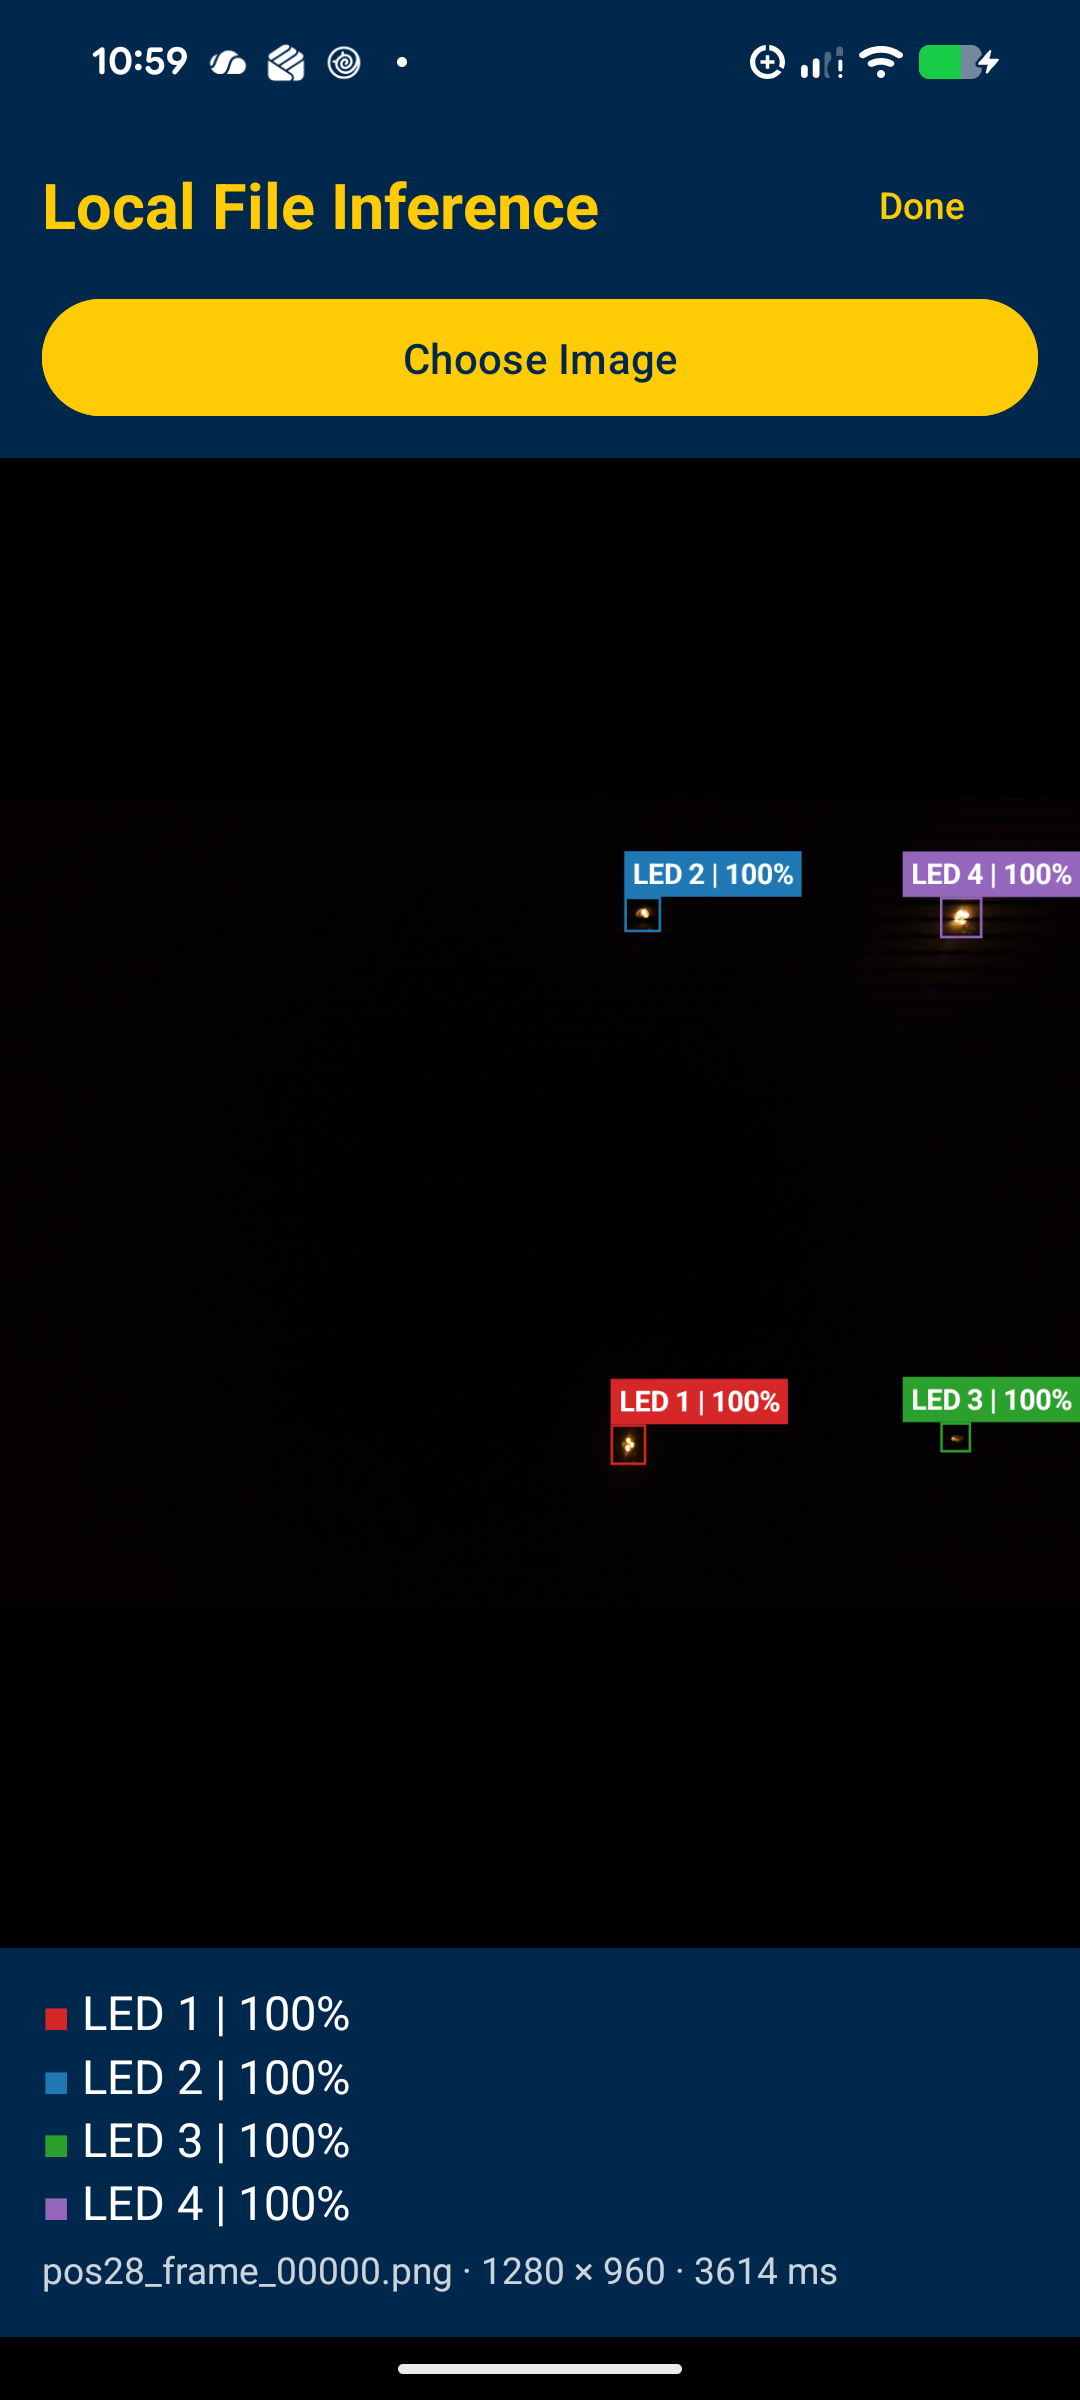
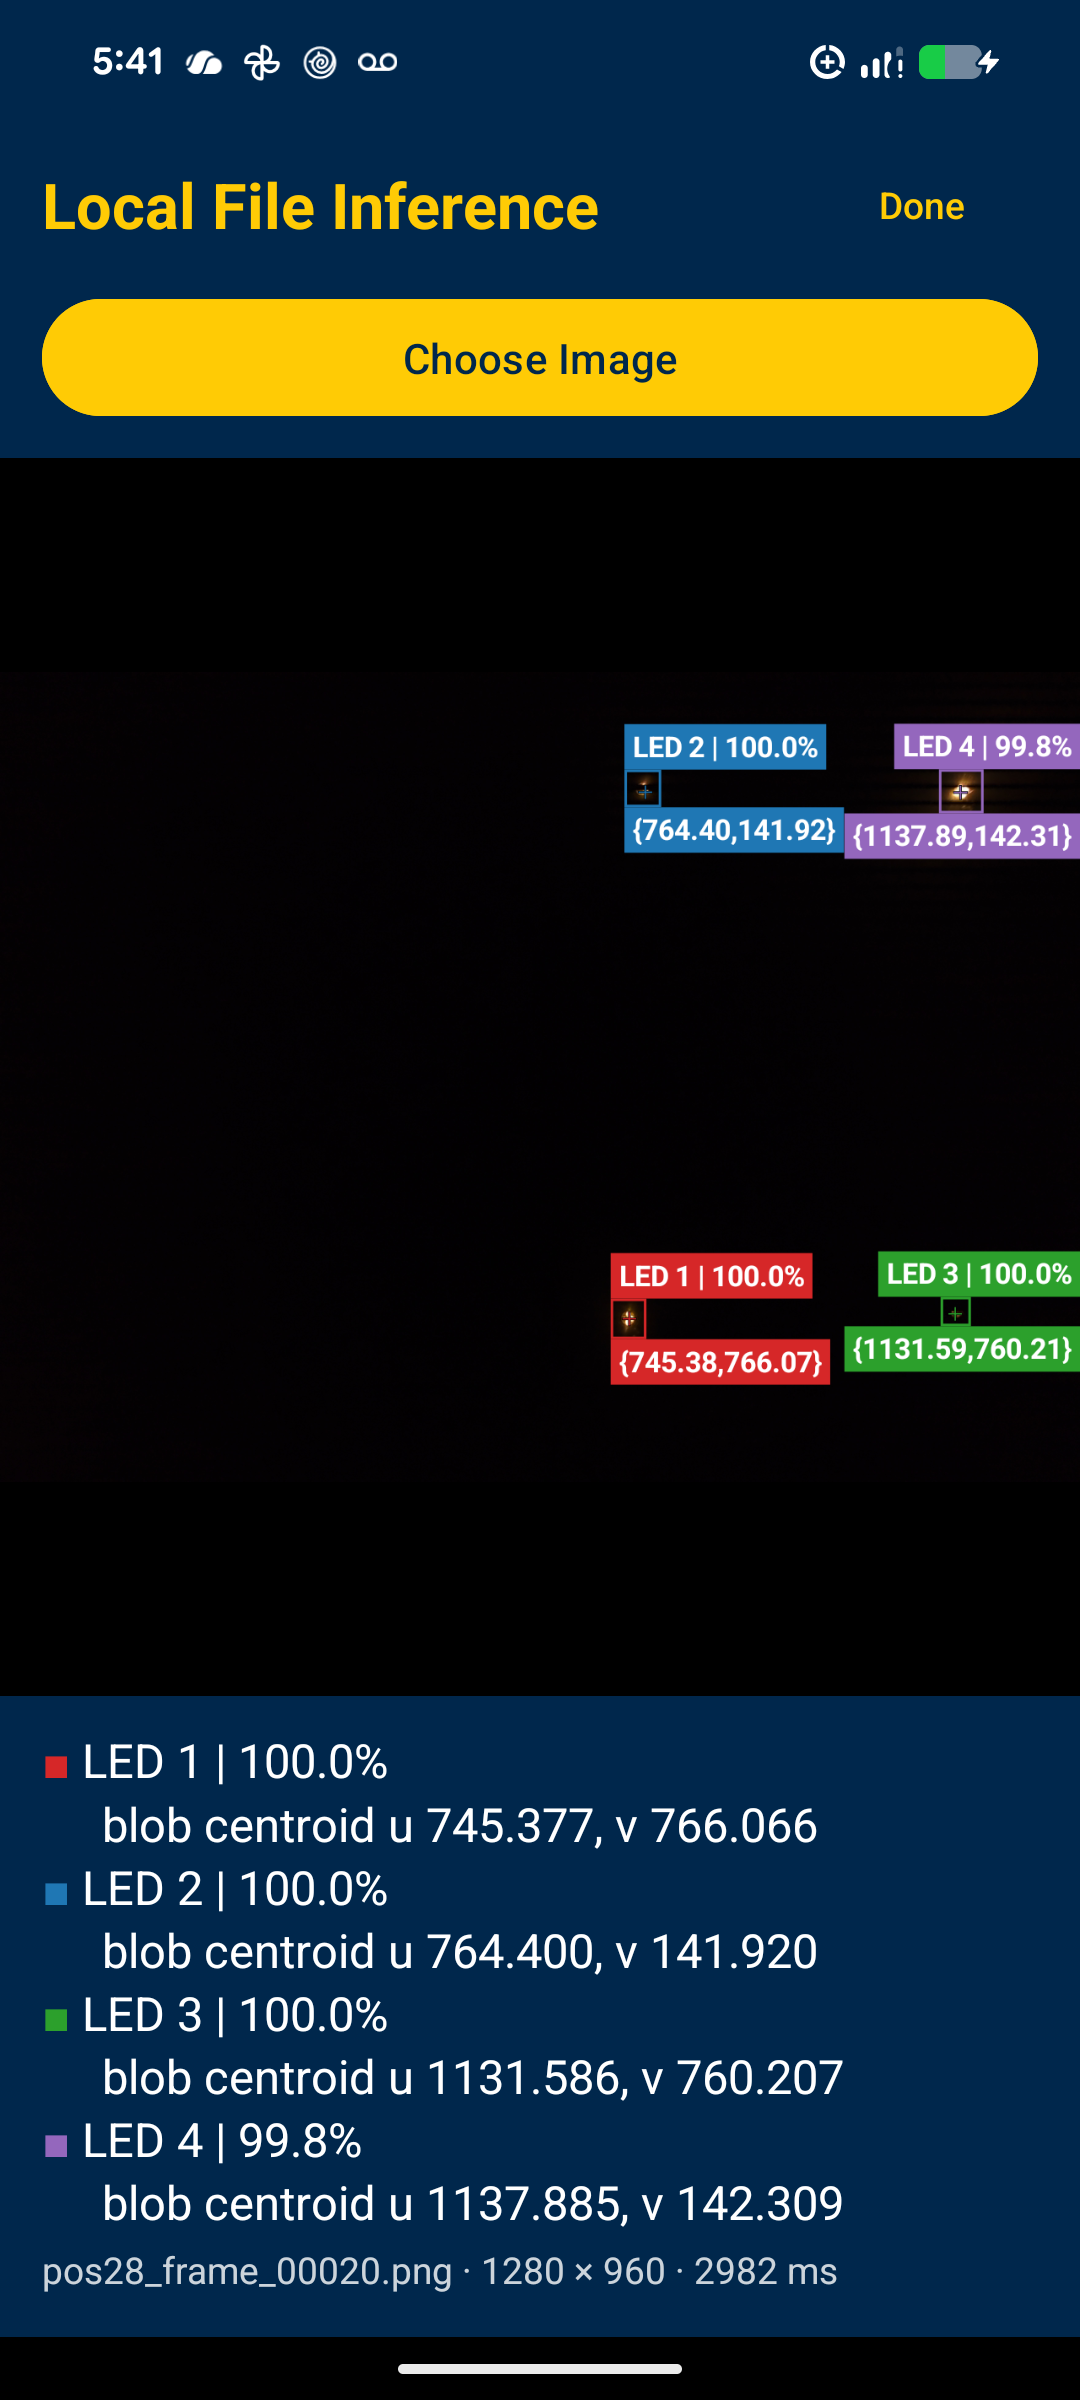
<DKA - November 19th 2026> {Retake screenshots 9 and 14 with version 1.7.0 and record what was checked on the phone}
Screenshot 9 shows version 1.7.0 on the About screen and screenshot 14
shows Local File Inference with the confidence to one decimal and the
blob centroid's coordinates under each box.

The README now says what a capture with 1.7.0 on the Pixel 8a showed:
203 files, a final.csv of 23 columns with the blob centroid and the
frame size, and processed frames with the coordinates under the box.
The tag under a box on the live preview was not looked at.

diff --git a/README.md b/README.md
@@ -37,7 +37,7 @@ Taken on a Pixel 8a. The files are in [`screenshots/`](screenshots), numbered in
 | <img src="screenshots/16.png" width="220" alt="FPS Rate"> | <img src="screenshots/17.png" width="220" alt="Inference Models"> | |
 | 16. FPS Rate | 17. Inference Models | |
 
-No LEDs were in front of the camera when screenshots 12, 13 and 15 were taken, so they show no boxes. Screenshot 14 shows the boxes and tags on a test frame of the third session; the preview draws them the same way. Screenshots 9 and 14 were taken with version 1.6.0: since version 1.7.0 a tag reads `LED 1 | 98.0%`, with one decimal, and the blob centroid's coordinates are written under each box.
+No LEDs were in front of the camera when screenshots 12, 13 and 15 were taken, so they show no boxes. Screenshot 14 shows the boxes and tags on a test frame of the third session; the preview draws them the same way. Under each box is the tag with the blob centroid's coordinates.
 
 ## Using Q-VLP
 
@@ -332,7 +332,7 @@ This is the capture, LED-detection and LED-recognition workflow, not a full impl
 - Validate LED detection under the real LEDs: thresholds, the camera-reported row time and centroid repeatability have only been checked on simulated frames.
 - Add a settings screen for the detection thresholds and LED frequencies, a row-time calibration mode, and a live preview overlay of detected blobs. The document's `fingerprints.csv` (with per-LED counts and standard deviations) is not generated; `final.csv` carries the core fingerprint columns.
 - The on-device (instrumented) tests were updated for the new session layout but have not been run on a phone, except `LedRecognitionDeviceTest`, which runs both models on a test frame of the third session's dataset and passes on a Pixel 8a.
-- Try Inference Mode under the real LEDs. With version 1.2.0 on a Pixel 8a, Inference Mode ran on the live preview and through a 30-frame capture with its post-inference files and `final.csv` (30 of 30 frames saved), but with no LEDs in view, so only the detection model ran there. With the models of this version the device test was run on the phone. On a test frame of the third session it found the four LEDs and named each at 100%: as one picture, as a series of frames, and as a whole six-frame capture, whose processed frames and processed frame metadata held the four LEDs the two models found, each in its colour at its labelled place. With the recognition model unticked it found the same four LEDs and named none, and with the detection model unticked it found nothing. By hand, Local File Inference named the four LEDs of that frame (screenshot 14) and the **Inference Models** checkboxes were tried in Settings (screenshot 17). A 50-frame capture was made in Inference Mode at the default 30 fps with no LEDs in view: 50 of 50 frames were saved at 30.00 fps, every processed frame was drawn from the two models and its metadata was the same as the inference frame metadata that version also wrote. The detection model marked an object that is not an LED in every frame (confidence up to 0.58) and the recognition model named it LED 3 in 20 of the 50, so `final.csv` gave no LED at that position; without the LEDs in view the models do find lights that are not there. The two models took 1.4 s a frame (median), and the capture was processed in 160 s while the app was also copying an earlier session to `Pictures/Q-VLP`. With version 1.5.0 and **Enable CV Algorithms** ticked, another 50-frame capture was made the same way, again with no LEDs in view: 50 of 50 frames at 30.00 fps. The session held `final.csv` and 202 files for the position, 101 in `Original_Frames` and 101 in `Processed_Frames`, and no other folder. All 50 processed frame metadata files came from the two models and held blob centroids, and `final.csv` was built from them; the two lights it names LED 2 and LED 3 are not LEDs. The **i** button listed the centroids under **CV Processing** (screenshot 13). Local File Inference with the setting ticked marked and listed the blob centroid of each of the four LEDs of a test frame of the third session, `pos28_frame_00020.png`, and they are the centroids the same rule gives for that frame on a computer, to all three decimals. With version 1.6.0 a session of 16 positions was captured one after the other in Inference Mode with **Enable CV Algorithms** ticked, 10 frames a position and no LEDs in view. Each position took about 30 s, and the copy to `Pictures/Q-VLP` kept up: 6 s after the tenth position it was already copying that position, and it was finished within a minute of the last one. No position was reported as not complete. **End Session** said that 16 positions were complete and that every file was saved, and `Pictures/Q-VLP` held 16 subfolders of 21 files in `Original_Frames`, 16 in `Processed_Frames` and a `final.csv` of 16 rows: 673 files, none missing and no partial file. A session of 50 positions at 50 frames, which takes about two hours, has not been run, and the message for a position that is not complete has not been seen on the phone; the rules behind both are covered by unit tests. The coordinates under the boxes, the confidence in the processed frames' labels and the 23 columns of `final.csv`, all new in version 1.7.0, were checked by unit tests and by drawing a processed frame on a computer, with the app's own code, from a test frame of the third session. They have not been looked at on the phone yet. A capture under the real LEDs has not been made in Inference Mode with this version. The cross at a blob centroid on the live preview has not been seen on real LEDs either. The boxes on the live preview have still not been seen on real LEDs. Their position on the preview was checked against a saved frame for the front camera only, in version 1.1.0.
+- Try Inference Mode under the real LEDs. With version 1.2.0 on a Pixel 8a, Inference Mode ran on the live preview and through a 30-frame capture with its post-inference files and `final.csv` (30 of 30 frames saved), but with no LEDs in view, so only the detection model ran there. With the models of this version the device test was run on the phone. On a test frame of the third session it found the four LEDs and named each at 100%: as one picture, as a series of frames, and as a whole six-frame capture, whose processed frames and processed frame metadata held the four LEDs the two models found, each in its colour at its labelled place. With the recognition model unticked it found the same four LEDs and named none, and with the detection model unticked it found nothing. By hand, Local File Inference named the four LEDs of that frame (screenshot 14) and the **Inference Models** checkboxes were tried in Settings (screenshot 17). A 50-frame capture was made in Inference Mode at the default 30 fps with no LEDs in view: 50 of 50 frames were saved at 30.00 fps, every processed frame was drawn from the two models and its metadata was the same as the inference frame metadata that version also wrote. The detection model marked an object that is not an LED in every frame (confidence up to 0.58) and the recognition model named it LED 3 in 20 of the 50, so `final.csv` gave no LED at that position; without the LEDs in view the models do find lights that are not there. The two models took 1.4 s a frame (median), and the capture was processed in 160 s while the app was also copying an earlier session to `Pictures/Q-VLP`. With version 1.5.0 and **Enable CV Algorithms** ticked, another 50-frame capture was made the same way, again with no LEDs in view: 50 of 50 frames at 30.00 fps. The session held `final.csv` and 202 files for the position, 101 in `Original_Frames` and 101 in `Processed_Frames`, and no other folder. All 50 processed frame metadata files came from the two models and held blob centroids, and `final.csv` was built from them; the two lights it names LED 2 and LED 3 are not LEDs. The **i** button listed the centroids under **CV Processing** (screenshot 13). Local File Inference with the setting ticked marked and listed the blob centroid of each of the four LEDs of a test frame of the third session, `pos28_frame_00020.png`, and they are the centroids the same rule gives for that frame on a computer, to all three decimals. With version 1.6.0 a session of 16 positions was captured one after the other in Inference Mode with **Enable CV Algorithms** ticked, 10 frames a position and no LEDs in view. Each position took about 30 s, and the copy to `Pictures/Q-VLP` kept up: 6 s after the tenth position it was already copying that position, and it was finished within a minute of the last one. No position was reported as not complete. **End Session** said that 16 positions were complete and that every file was saved, and `Pictures/Q-VLP` held 16 subfolders of 21 files in `Original_Frames`, 16 in `Processed_Frames` and a `final.csv` of 16 rows: 673 files, none missing and no partial file. A session of 50 positions at 50 frames, which takes about two hours, has not been run, and the message for a position that is not complete has not been seen on the phone; the rules behind both are covered by unit tests. The coordinates under the boxes, the confidence in the processed frames' labels and the 23 columns of `final.csv`, all new in version 1.7.0, were checked by unit tests and by drawing a processed frame on a computer, with the app's own code, from a test frame of the third session. On the phone, a 50-frame capture in Inference Mode with no LEDs in view gave 203 files and a `final.csv` of 23 columns: the one light the models named had its blob centroid in both pairs of columns, and the row ended in `1280,960`. Its processed frames showed the name and confidence above the box and the coordinates under it, the same numbers as in the frame's metadata. Local File Inference marked the four LEDs of the test frame the same way (screenshot 14). The tag under a box on the live preview, which is drawn by the same code, was not looked at. A capture under the real LEDs has not been made in Inference Mode with this version. The cross at a blob centroid on the live preview has not been seen on real LEDs either. The boxes on the live preview have still not been seen on real LEDs. Their position on the preview was checked against a saved frame for the front camera only, in version 1.1.0.
 - **FPS Rate** was tried on a Pixel 8a front camera at 1, 7, 15, 29 and 30 fps: the camera was ready at each and reported 1.000, 7.000, 14.998, 28.999 and 29.990 fps. Captures of 30 frames at 1 fps saved 30 of 30 frames in both modes. The rear camera and other phones were not tried.
 - On the 336 frames of the third session's validation and test positions, nine camera positions neither model was trained on, the app's rules find all 864 labelled LEDs, name every one right and put no box anywhere else. An LED is named right both from a single frame, as five copies, and from its last five frames. The detection model's lowest confidence is 76% and its boxes overlap the labelled ones by 80% at least (93% in the middle). The recognition model's lowest probability for a right name is 72% from a single frame and 99.8% from five frames. This was computed on a computer, with the two model files and the app's rules step for step; on the phone the same answers were confirmed for one of these frames.
 - The models of this version were trained on the third session only. The frames of the first two sessions were recorded with the earlier codes, and their datasets number the LEDs by place, with LED 2 and LED 3 the other way round. What these models answer on those frames was not measured; the names are not expected to match those sessions' labels.
